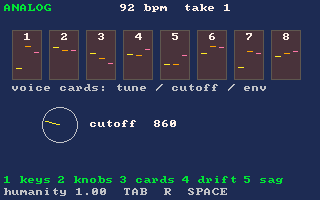
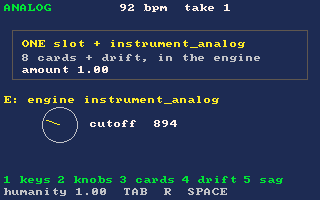
synthhand: the pad and lead on the engine's instrument_analog (E = the cart's eight slots)
All pad notes now go to ONE neutral slot with instrument_analog(slot, 1)
(the lead 0.6), the engine handing out the voice cards and drift; E
switches back to the cart's eight hand-offset slots, which render
byte-identical to the version Nikki first heard, so the A/B stays fair.
Layer 3 turns the analog off and on in either mode. Set-and-hold:
instrument_analog is re-sent only when the wanted amount changes.
DE_DEFINES=CART_CARDS starts on the cart slots. Nikki: 'synthhand sounds
great, makes me happy'.

diff --git a/tools/carts/synthhand.c b/tools/carts/synthhand.c
@@ -16,7 +16,7 @@
   "description": {
     "summary": "An analog polysynth that is ALIVE: a hand rides the filter and the mod wheel, chords land a little apart, and the machine itself is imperfect: every voice slightly different, the oscillators drifting, the power sagging when the chord is big. TAB flips to the perfect digital version.",
     "detail": "Pad and lead on a saw-and-ladder-filter voice. The player: chords spread a few ms, velocity varies, notes overlap into the next chord; the left hand sweeps the cutoff slowly and unevenly through a phrase (overshooting a little), brings the mod-wheel vibrato in late on long lead notes, bends into some notes, and glides on some. The machine: eight VOICE CARDS, each with its own small tuning, cutoff and envelope offsets, handed out in rotation so the same note twice sounds twice; every card drifts slowly in pitch (more while the synth is 'cold' at the start); a big chord sags the level and the filter a touch. Keys 1-5 switch each layer on and off.",
-    "controls": "SPACE play/stop · TAB analog / digital · 1 keys 2 knobs 3 cards 4 drift 5 sag · UP/DOWN humanity · R new take"
+    "controls": "SPACE play/stop · TAB analog / digital · E engine instrument_analog / cart voice cards · 1 keys 2 knobs 3 cards 4 drift 5 sag · UP/DOWN humanity · R new take"
   }
 }
 de:meta */
@@ -34,12 +34,15 @@ de:meta */
 #define CARD0  10
 #define NCARD  8
 #define LEAD   18
+#define ENGSL  19          // ONE neutral pad slot for the engine's own instrument_analog
 #define NPV    16          // pad voices we track
 
 enum { L_KEYS, L_KNOBS, L_CARDS, L_DRIFT, L_SAG, NLAYER };
 static const char *LAYER_NAME[NLAYER] = { "keys", "knobs", "cards", "drift", "sag" };
 
 static bool  playing = true, human = true;
+static bool  engine_cards = true;   // E: the engine's instrument_analog (one slot) vs the cart's eight offset slots
+static float analog_applied = -1;   // set-and-hold: instrument_analog is re-sent only on a change
 static bool  layer[NLAYER] = { true, true, true, true, true };
 static float humanity = 1.0f;
 static int   tempo = 92;
@@ -100,6 +103,8 @@ static void setup_sound(void) {
         patch(cs, (int)(380 * card_env[c]), (int)(900 * card_env[c]), 5, (int)(1300 * card_env[c]), 0.08f + 0.04f * rnd_float());
         instrument_pan(cs, (c - 3.5f) * 0.08f);
     }
+    patch(ENGSL, 380, 900, 5, 1300, 0.10f);              // neutral: the engine adds the voice cards
+    analog_applied = -1;
     patch(LEAD, 8, 300, 6, 180, 0.06f);
     instrument_mono(LEAD, 1);
     instrument_filter(LEAD, FILTER_LADDER, 1800, 6);
@@ -129,13 +134,15 @@ static void start_chord(int ci) {
     // the keys: the old chord lets go a moment AFTER the new one lands (legato), or at once
     for (int k = 0; k < 4; k++) {
         int m = CHORDS[ci][k];
-        int card = C ? next_card : 0;                     // round-robin through the cards
-        if (C) next_card = (next_card + 1) % NCARD;
-        int slot = (human && C) ? CARD0 + card : CARD0;   // digital: one slot, every voice the same
+        bool cart_cards = C && !engine_cards;
+        int card = cart_cards ? next_card : 0;            // round-robin through the cart's cards
+        if (cart_cards) next_card = (next_card + 1) % NCARD;
+        // ENGINE mode: every note to one slot, instrument_analog hands out the cards inside the engine
+        int slot = engine_cards ? ENGSL : (cart_cards ? CARD0 + card : CARD0);
         float vel = K ? 0.70f + 0.15f * r1() * H + (k == 3 ? 0.08f : 0) : 0.75f;
         int i = free_pv();
         pv[i].h = note_on(m, slot, (int)(vel * 7.0f));
-        pv[i].card = C ? card : -1; pv[i].midi = m; pv[i].vel = vel;
+        pv[i].card = cart_cards ? card : -1; pv[i].midi = m; pv[i].vel = vel;
         // note_on cannot start inside a frame, so the KEYS layer spreads the chord by each voice's
         // loudness arriving at its own moment instead: lower notes land first
         pv[i].t_on = chord_t + (K ? (0.004f + 0.006f * k) * H + 0.003f * rnd_float() : 0);
@@ -169,6 +176,9 @@ static void lead_start(int li) {
 
 void init(void) {
     setup_sound(); new_take();
+#ifdef CART_CARDS   // DE_DEFINES=CART_CARDS: start on the cart's eight slots (the A/B)
+    engine_cards = false;
+#endif
 #ifdef LAYERS_OFF    // DE_DEFINES=LAYERS_OFF=<bitmask>: start with layers off (bit 0 = keys .. bit 4 = sag), for A/B renders
     for (int i = 0; i < NLAYER; i++) if (LAYERS_OFF & (1 << i)) layer[i] = false;
 #endif
@@ -181,6 +191,11 @@ void update(void) {
     if (keyp(KEY_UP))   humanity = fminf(1.5f, humanity + 0.25f);
     if (keyp(KEY_DOWN)) humanity = fmaxf(0.0f, humanity - 0.25f);
     if (keyp('R')) { seed++; release_old(1e9); setup_sound(); new_take(); }
+    if (keyp('E')) { engine_cards = !engine_cards; release_old(1e9); }
+    {   // the engine's analog: on in ENGINE mode when the cards layer is on (set-and-hold, never per frame)
+        float want = (engine_cards && human && layer[L_CARDS]) ? humanity : 0.0f;
+        if (want != analog_applied) { instrument_analog(ENGSL, want); instrument_analog(LEAD, want * 0.6f); analog_applied = want; }
+    }
     t_now += dt();
     if (!playing) return;
     float H = humanity;
@@ -255,8 +270,15 @@ void update(void) {
 void draw(void) {
     cls(CLR_DARK_BLUE);
     print(human ? "ANALOG" : "DIGITAL", 4, 4, human ? CLR_GREEN : CLR_RED);
+    print(engine_cards ? "E: engine instrument_analog" : "E: cart voice cards", 4, 96, engine_cards ? CLR_YELLOW : CLR_LIGHT_GREY);
     print(str("%d bpm  take %d", tempo, seed), 120, 4, CLR_WHITE);
     // the eight voice cards: lit when sounding, their offsets as little marks
+    if (engine_cards) {
+        rect(12, 30, 296, 50, CLR_DARK_GREY);
+        print("ONE slot + instrument_analog", 22, 40, CLR_YELLOW);
+        print("8 cards + drift, in the engine", 22, 54, CLR_LIGHT_GREY);
+        print(str("amount %.2f", analog_applied < 0 ? 0 : analog_applied), 22, 66, CLR_WHITE);
+    } else
     for (int c = 0; c < NCARD; c++) {
         int x = 12 + c * 37, y = 30;
         bool on = false; for (int i = 0; i < NPV; i++) if (pv[i].h && pv[i].card == c) on = true;
@@ -270,7 +292,7 @@ void draw(void) {
         int ey = y + 25 - (int)((card_env[c] - 1) * 60);
         line(x + 22, ey, x + 27, ey, CLR_PINK);                       // envelope
     }
-    print("voice cards: tune / cutoff / env", 12, 84, CLR_LIGHT_GREY);
+    if (!engine_cards) print("voice cards: tune / cutoff / env", 12, 84, CLR_LIGHT_GREY);
     // the cutoff knob
     int kx = 60, ky = 125; float ang = -225 + 270 * clamp((shown_cut - 300) / 2400, 0, 1);
     circ(kx, ky, 18, CLR_LIGHT_GREY);
